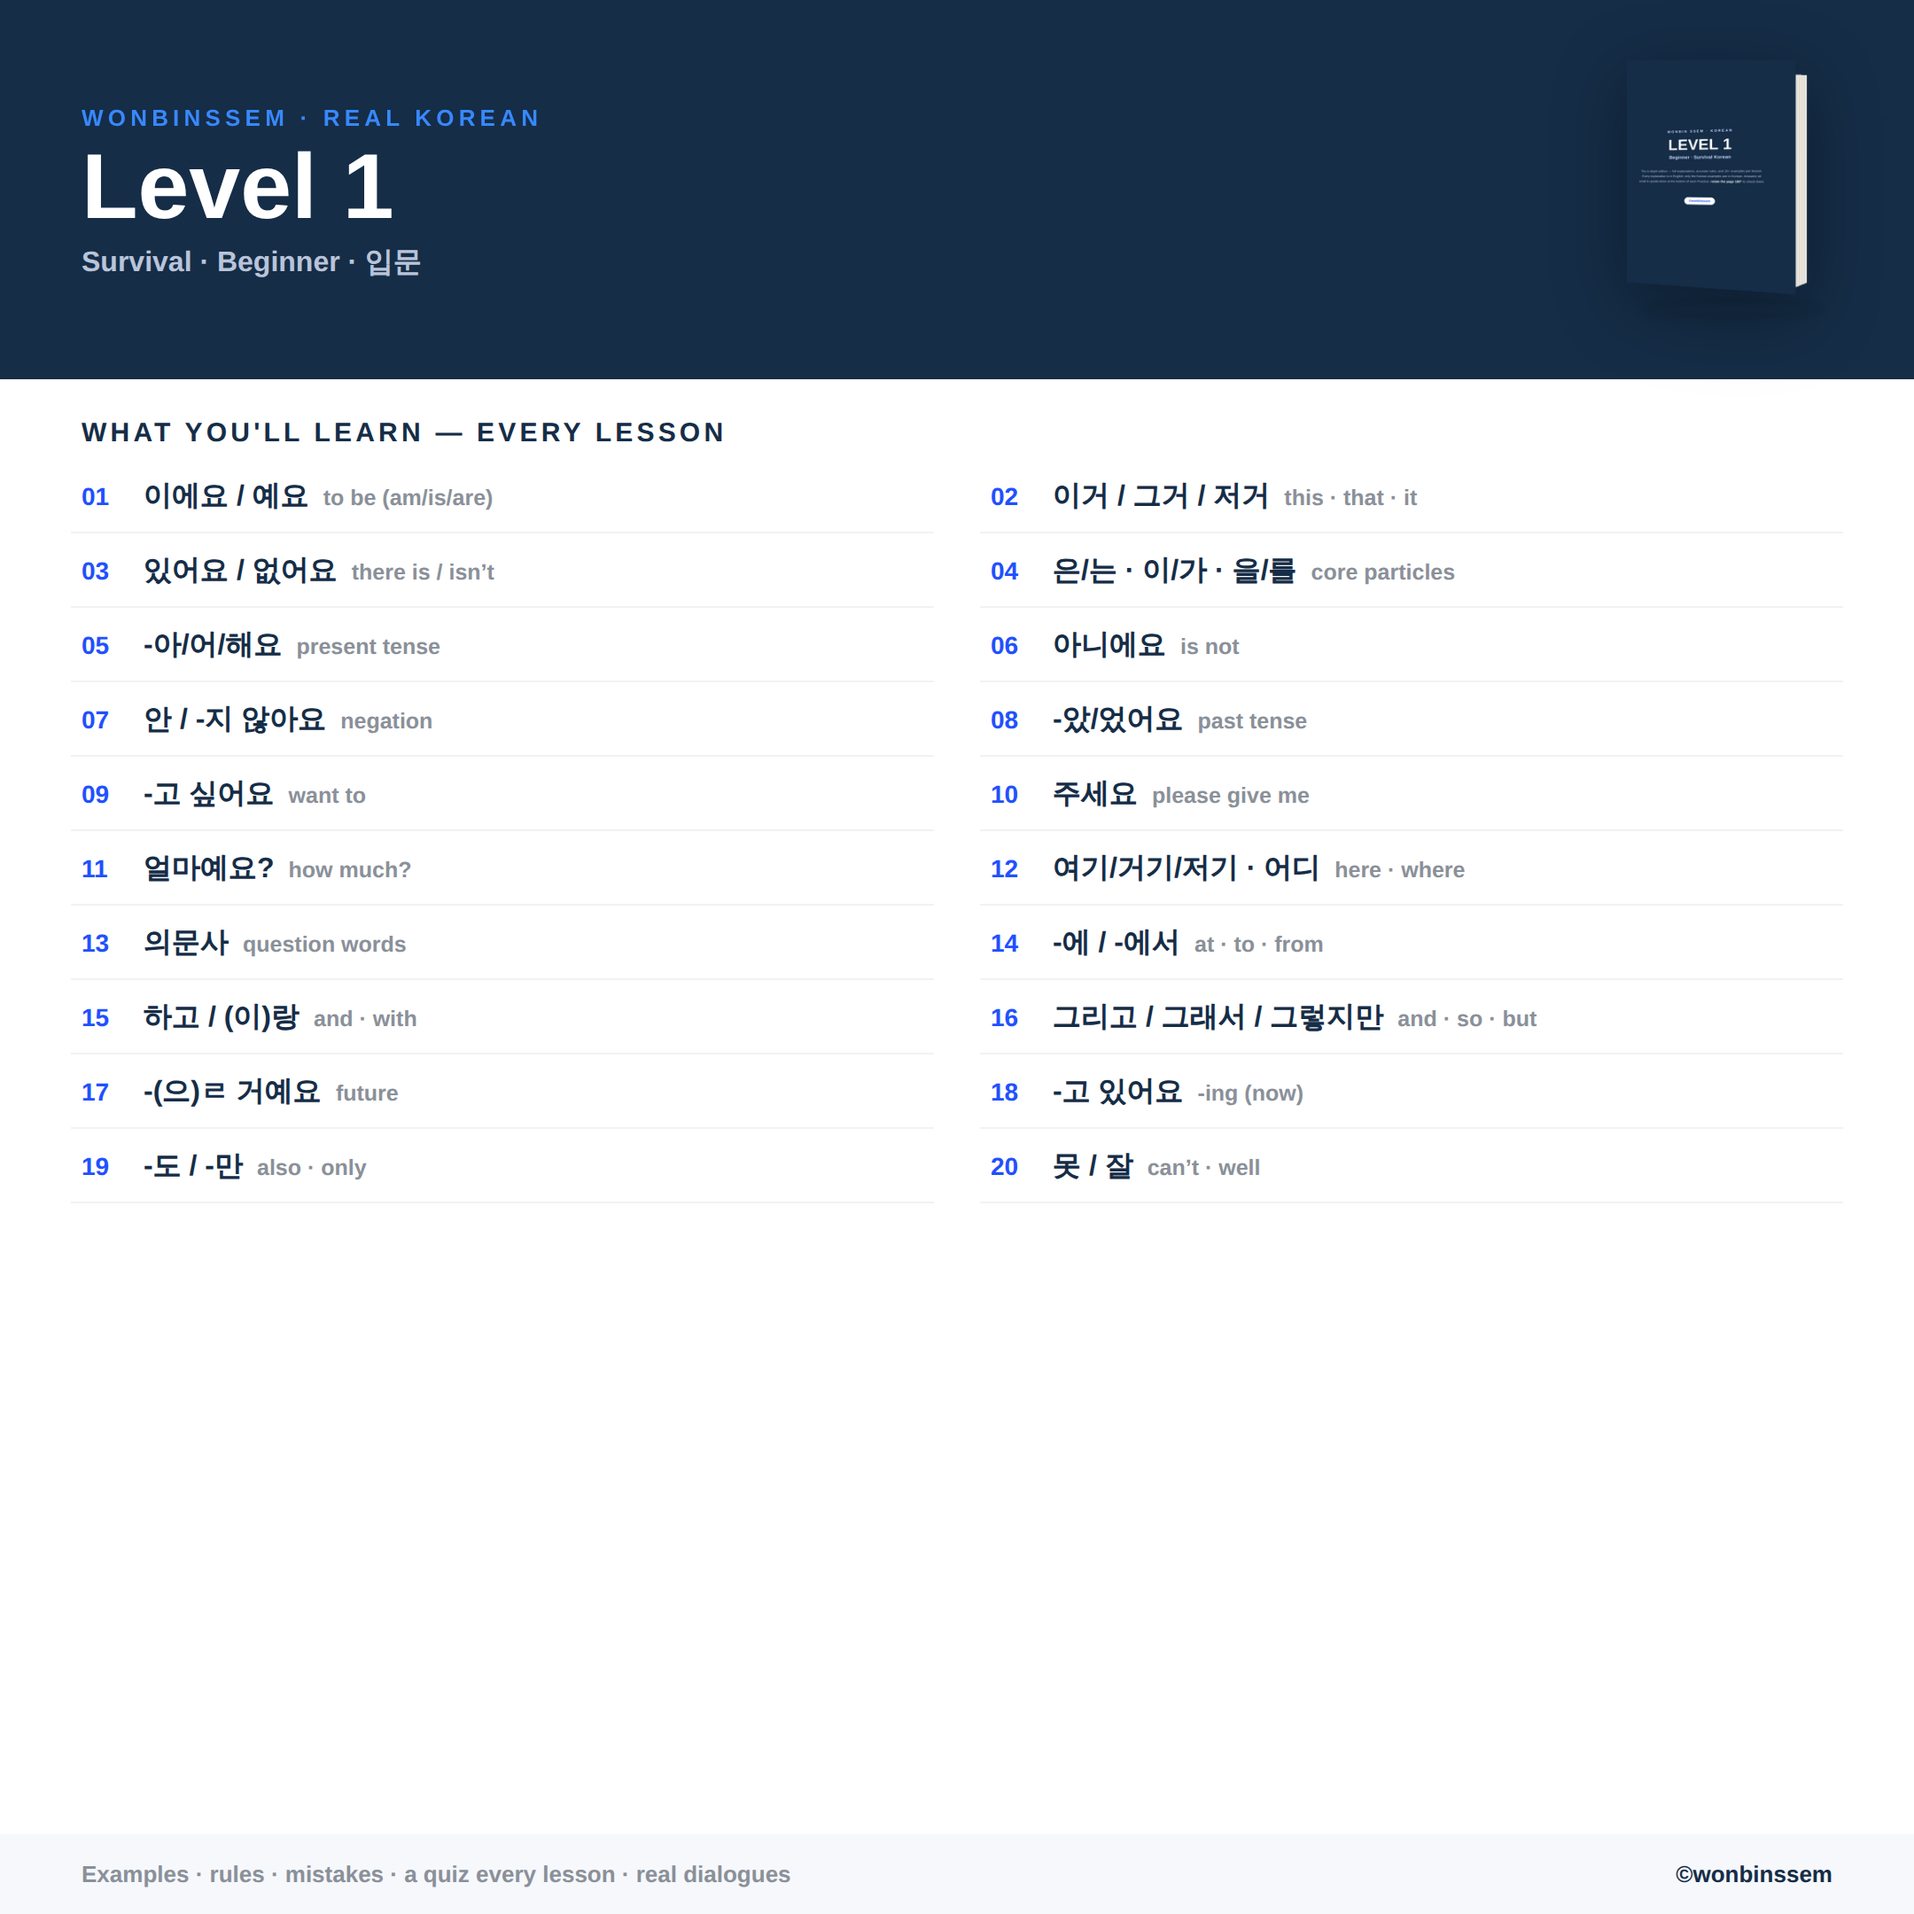
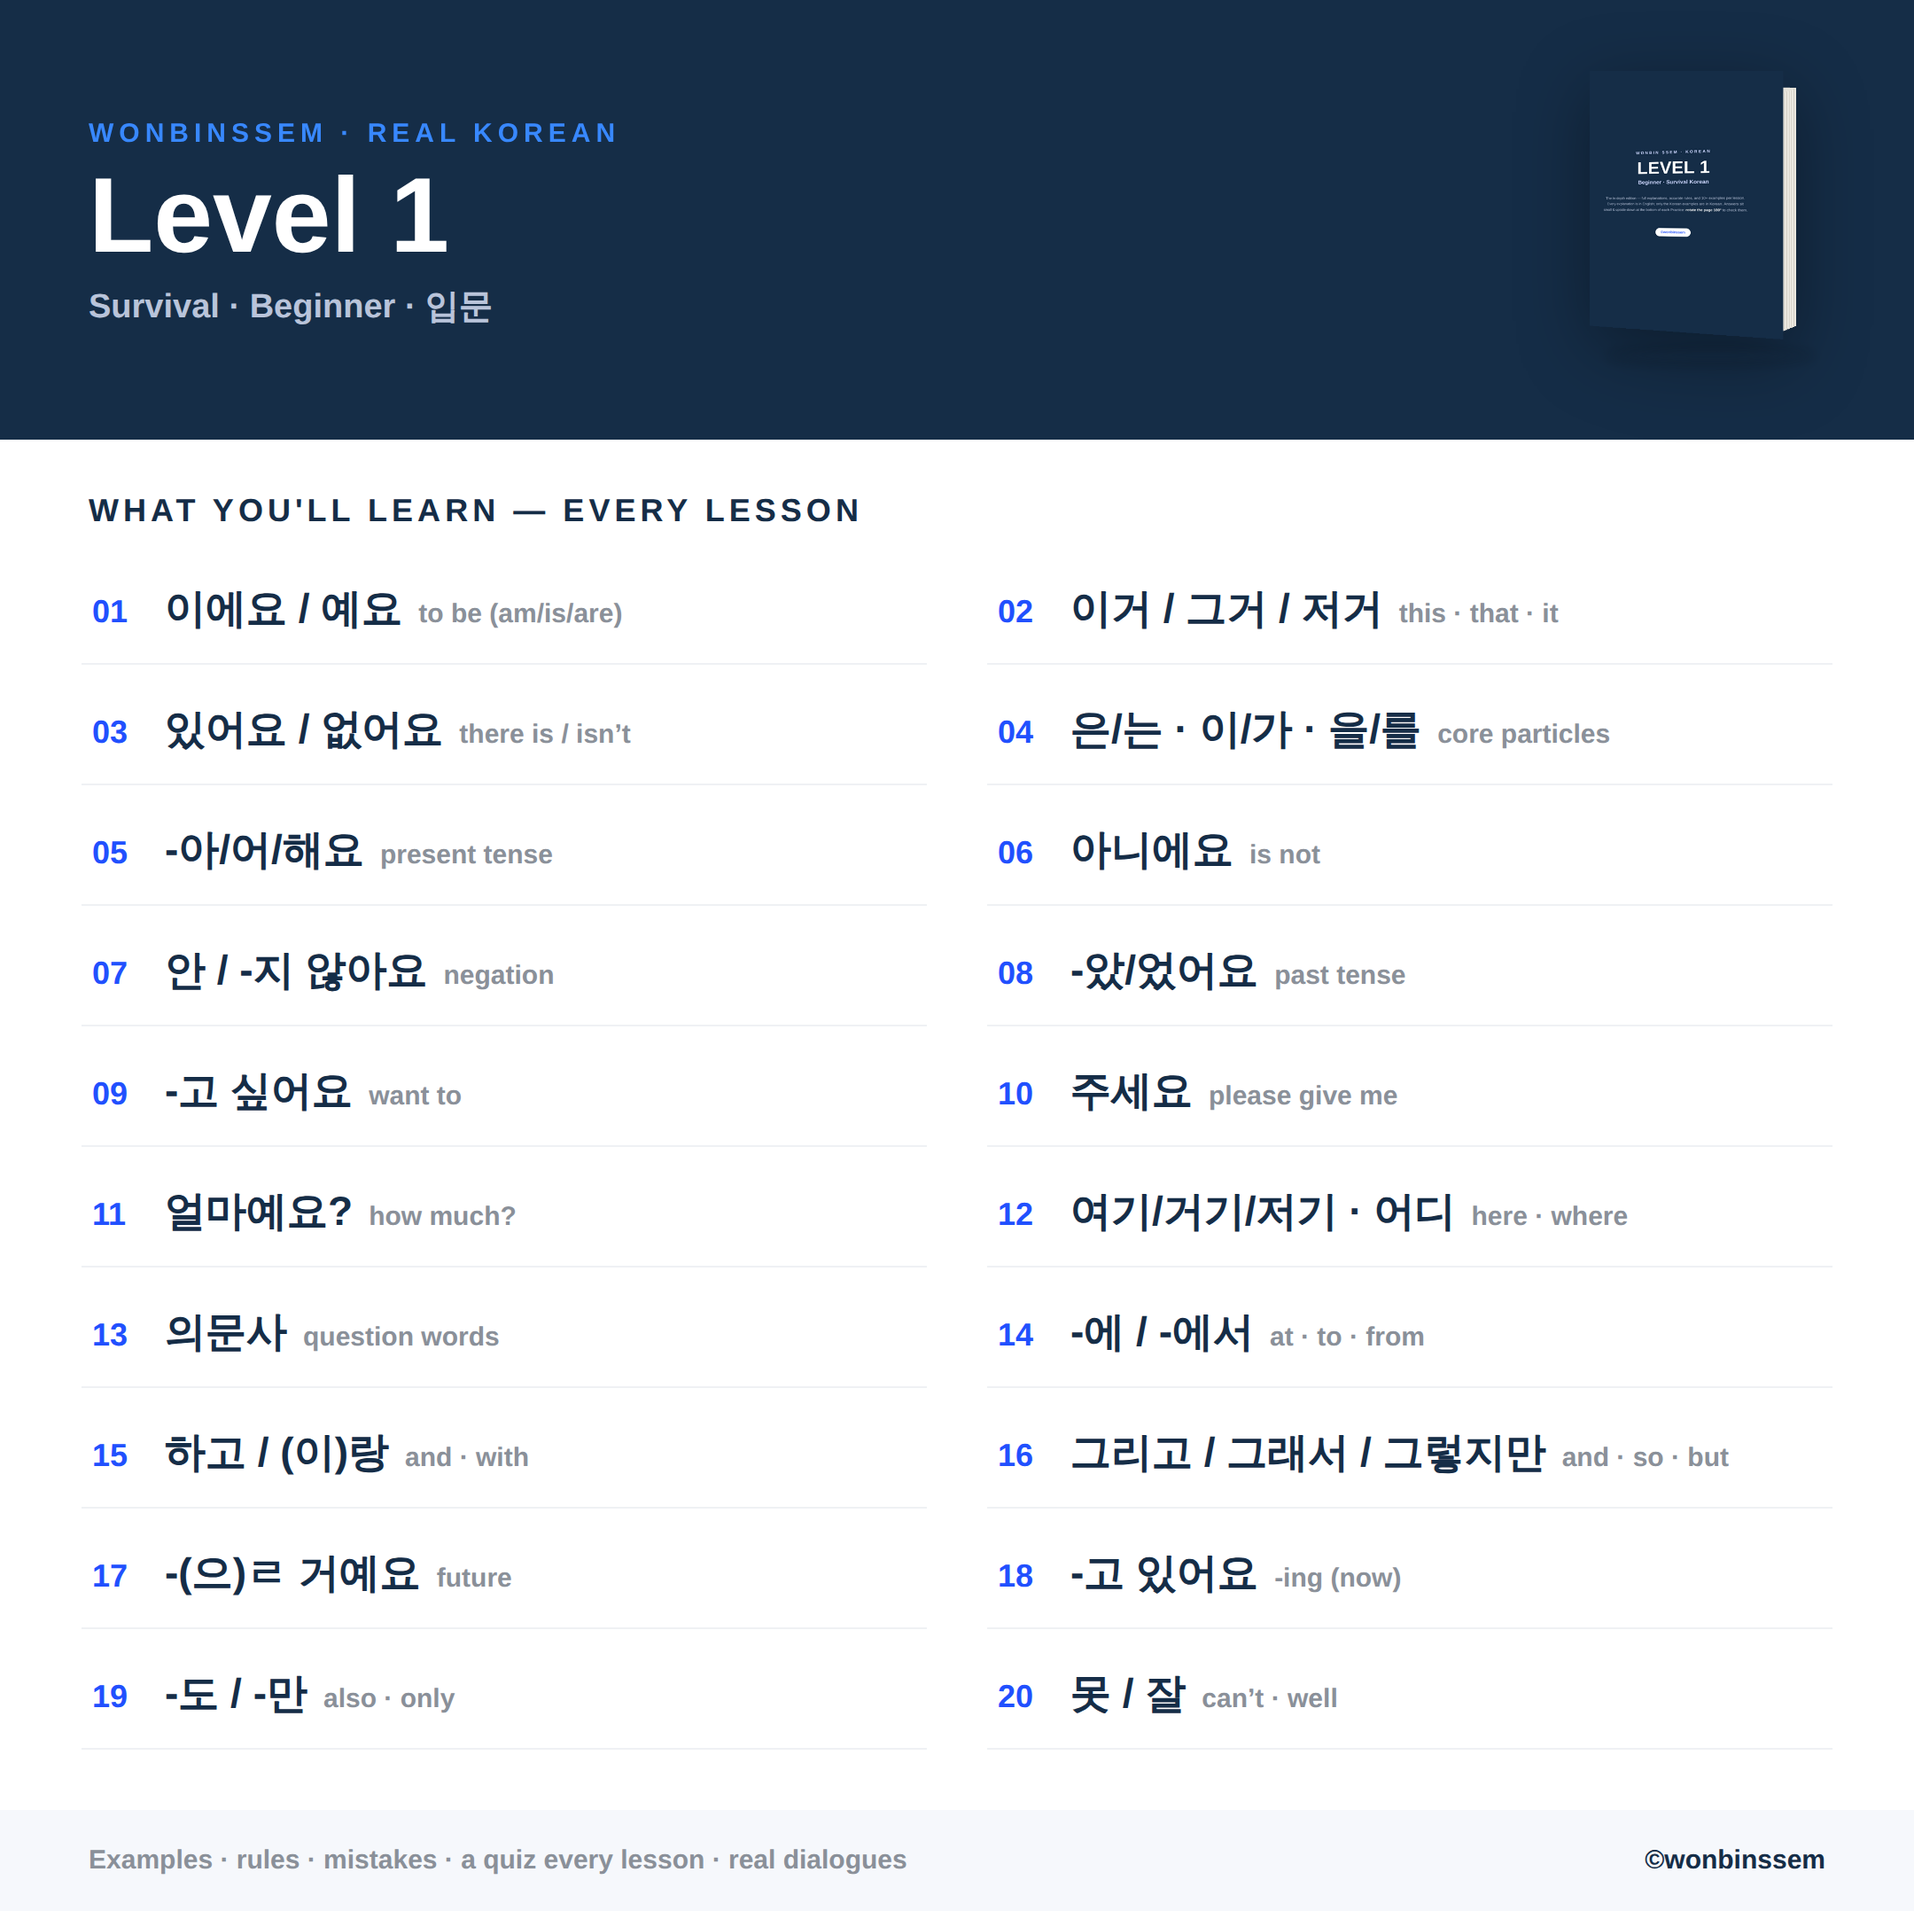
resources

diff --git a/src/components/TextbookStore.tsx b/src/components/TextbookStore.tsx
@@ -56,6 +56,9 @@ export default function TextbookStore() {
             Real, high-frequency Korean from daily life in Korea — not textbook lines, and <b>not AI-generated</b>.
             Flip through the levels to see exactly what's inside.
           </p>
+          <a href="#level-test" className="inline-flex items-center gap-1.5 text-sm font-black text-primary hover:underline">
+            Not sure of your level? Take the free level test <ArrowRight size={14} />
+          </a>
         </div>
 
         {/* Hero image + stats */}
@@ -121,7 +124,7 @@ export default function TextbookStore() {
             <p className="text-sm text-muted-foreground font-medium mt-2 max-w-lg mx-auto">{lv.cando}</p>
           </div>
 
-          <div className="rounded-[2rem] overflow-hidden border border-gray-100 shadow-card max-w-2xl mx-auto">
+          <div className="rounded-[2rem] overflow-hidden border border-gray-100 shadow-card max-w-3xl mx-auto">
             <img src={lv.img} alt={`Level ${lv.n} contents`} className="w-full block" />
           </div>
         </div>
@@ -182,7 +185,7 @@ export default function TextbookStore() {
           <div className="bg-primary/5 border border-primary/15 rounded-2xl p-5 flex items-center justify-center gap-3 text-center">
             <Gift size={20} className="text-primary shrink-0" />
             <p className="text-sm font-bold text-foreground">
-              Taking a class? Your level's workbook is <span className="text-primary">free</span> — just book a lesson.
+              Taking a class? <span className="text-primary">All 5 level workbooks are free</span> — just book a lesson.
             </p>
           </div>
         </div>

diff --git a/public/level-test.html b/public/level-test.html
@@ -259,6 +259,7 @@
       <div class="desc" id="rDesc"></div>
     </div>
     <div class="score-line">You answered <b id="rCorrect">0</b> of <b id="rAnswered">0</b> questions correctly.</div>
+    <div id="rRecommend"></div>
 
     <div class="rev-title">Review &amp; Explanations</div>
     <div id="review"></div>
@@ -462,6 +463,17 @@ const TEST = (function(){
       wrap.innerHTML = html;
       rev.appendChild(wrap);
     });
+
+    // recommendation
+    var lvl = finalLevel === 0 ? 1 : finalLevel;
+    el('rRecommend').innerHTML =
+      '<div style="background:#EEF2FE;border:1px solid #D3DEFF;border-radius:16px;padding:20px 22px;margin:20px auto 8px;max-width:470px;text-align:left;">'
+      + '<div style="font-weight:800;color:#152D47;font-size:15px;margin-bottom:6px;">\u{1F3AF} Recommended for you</div>'
+      + '<p style="font-size:14px;color:#4C4C4D;line-height:1.55;margin:0 0 14px;">Based on your result, start around <b style="color:#2150FE">Level ' + lvl + '</b>. Pair a class at your level with the <b>Level ' + lvl + ' workbook</b> and it clicks fast.</p>'
+      + '<div style="display:flex;gap:10px;flex-wrap:wrap;">'
+      + '<a href="/#classes" target="_top" style="background:#2150FE;color:#fff;font-weight:800;font-size:13px;text-decoration:none;padding:11px 17px;border-radius:10px;">Book a class \u2192</a>'
+      + '<a href="/#textbooks" target="_top" style="background:#fff;color:#152D47;font-weight:800;font-size:13px;text-decoration:none;padding:11px 17px;border-radius:10px;border:1px solid #D3DEFF;">Get the Level ' + lvl + ' textbook \u2192</a>'
+      + '</div></div>';
 
     show('result');
   }

diff --git a/src/components/CoursesSection.tsx b/src/components/CoursesSection.tsx
@@ -60,6 +60,9 @@ export default function CoursesSection() {
           <p className="text-base sm:text-lg text-muted-foreground font-medium max-w-xl mx-auto leading-relaxed">
             Choose the class size that fits you best. All classes include Google Drive notes and KakaoTalk help!
           </p>
+          <a href="#level-test" className="inline-flex items-center gap-1.5 text-sm font-black text-primary hover:underline">
+            Not sure of your level? Take the free level test <ArrowRight size={14} />
+          </a>
         </div>
 
         {/* 3 Main Class Options Grid */}
@@ -114,6 +117,14 @@ export default function CoursesSection() {
                   </div>
                   <span className="text-xs sm:text-sm text-foreground/80 font-medium leading-snug">
                     {opt.status}
+                  </span>
+                </div>
+                <div className="flex items-start gap-3">
+                  <div className="w-5 h-5 rounded-full bg-green-100 flex items-center justify-center shrink-0 mt-0.5 text-green-600">
+                    <Check size={12} />
+                  </div>
+                  <span className="text-xs sm:text-sm text-foreground/80 font-bold leading-snug">
+                    🎁 All 5 level workbooks (Levels 1&ndash;5) &mdash; <span className="text-green-600">free</span>
                   </span>
                 </div>
               </div>

diff --git a/src/components/ResourcesSection.tsx b/src/components/ResourcesSection.tsx
@@ -30,6 +30,14 @@ type Material = {
 
 const materials: Material[] = [
   {
+    icon: FileText,
+    title: "Hangul Starter Pack",
+    desc: "Read Korean in under an hour — memory tricks for every letter, plus practice and real-word reading.",
+    tag: "free",
+    status: "ready",
+    href: "/wonbinssem-hangul-starter.pdf",
+  },
+  {
     icon: BookOpen,
     title: "Essential Verbs 100",
     desc: "The 100 most-used Korean verbs — each with a real example, natural pronunciation, and a color-coded sentence breakdown.",
@@ -46,24 +54,9 @@ const materials: Material[] = [
     href: "/wonbinssem-essential-adjectives-100.pdf",
   },
   {
-    icon: FileText,
-    title: "Hangul Starter Pack",
-    desc: "Read Korean in under an hour — memory tricks for every letter, plus practice and real-word reading.",
-    tag: "free",
-    status: "ready",
-    href: "/wonbinssem-hangul-starter.pdf",
-  },
-  {
     icon: Plane,
     title: "Travel Korean Guide",
     desc: "Handy phrases for your trip to Korea — ordering, directions, and more.",
-    tag: "paid",
-    status: "soon",
-  },
-  {
-    icon: GraduationCap,
-    title: "Level 1 Grammar Deep-Dive (PDF)",
-    desc: "The detailed companion PDF to the free Level 1 video lessons.",
     tag: "paid",
     status: "soon",
   },

diff --git a/src/pages/Index.tsx b/src/pages/Index.tsx
@@ -42,6 +42,7 @@ const ANCHOR_TO_TAB: Record<string, string> = {
   leveltest: "level-test",
   test: "level-test",
   resources: "resources",
+  textbooks: "resources",
   "useful-korean": "resources",
   ebooks: "resources",
   library: "resources",
@@ -109,8 +110,8 @@ const Index = () => {
 
         {active === "resources" && (
           <>
-            <TextbookStore />
             <ResourcesSection />
+            <TextbookStore />
             <UsefulKoreanSection />
           </>
         )}
